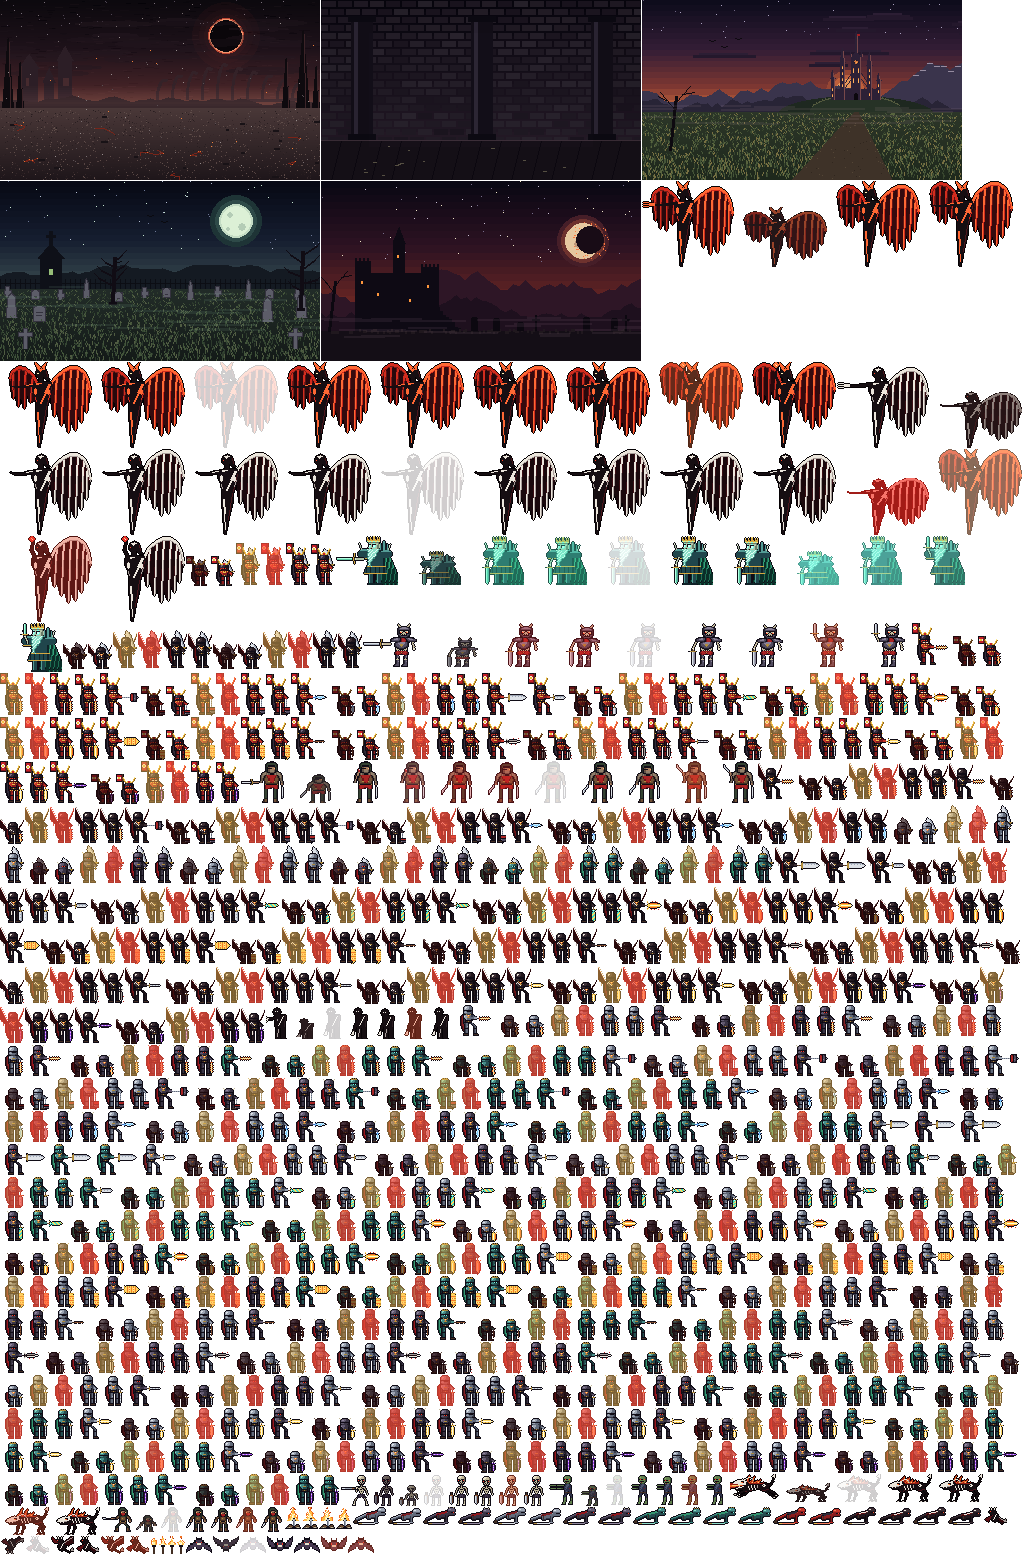
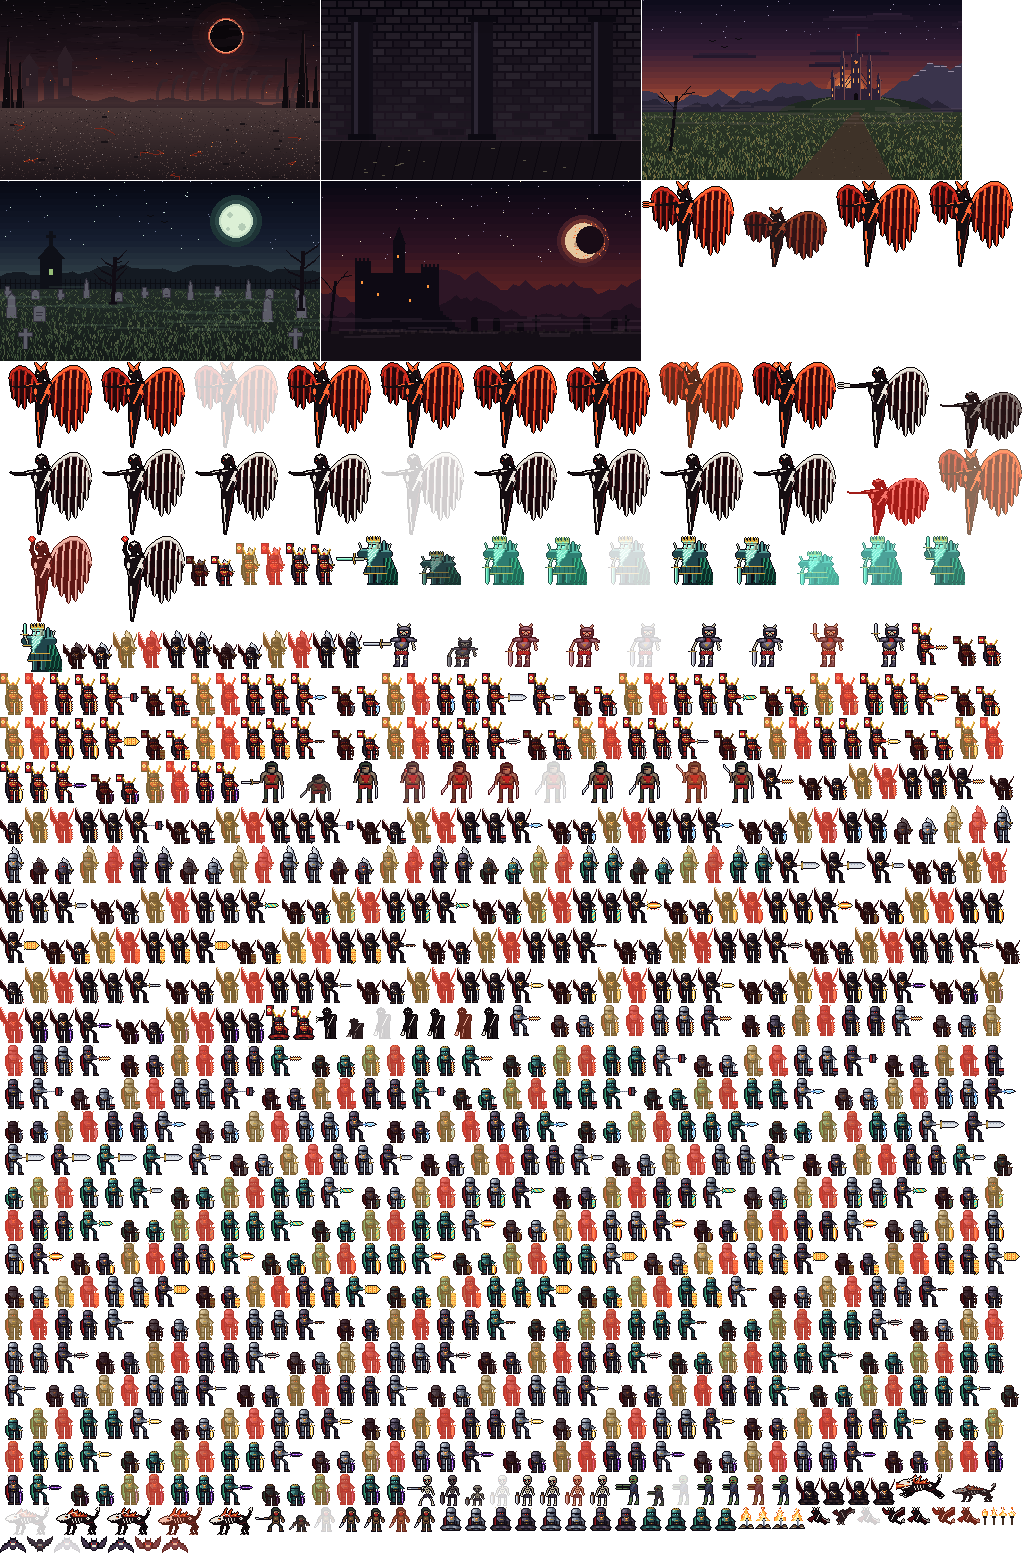
Медитация у костра вместо планки в бою
Аура копится только у костра: игрок стоит в планке, а герой медитирует,
сидя со скрещенными ногами и паря над землёй (тень, покачивание).
В бою и на титуле аура действует пассивно, герой в обычной стойке.
Подсказка у костра и в обучении про медитацию.

Claude-Session: https://claude.ai/code/session_011mW4u7Ce1C3wwPLST6Z2ZA

diff --git a/fitness_rpg/web/js/game.js b/fitness_rpg/web/js/game.js
@@ -41,8 +41,17 @@ function heroLook(owned) {
   if (owned.includes("kingarmor")) return amulet ? "king_amulet" : "king";
   return armor && amulet ? "both" : armor ? "armor" : amulet ? "amulet" : "base";
 }
-/** Герой в планке (копит ауру): поза одна на облик, меч лежит под ним. */
-const plankSprite = (owned, outfit, t) => anim(`hero_plank_${outfit || heroLook(owned)}`, t, 2.5, 2);
+/** Медитация у костра (игрок в планке — копится аура): герой сидит, скрестив ноги, и парит над землёй. */
+const meditateSprite = (owned, outfit, t) => anim(`hero_meditate_${outfit || heroLook(owned)}`, t, 1.2, 2);
+const meditateLift = (t) => 5 + Math.round(Math.sin(t * 2) * 1.5); // высота парения, медленно покачивается
+function drawMeditating(c, spr, x, ground, t, k = 1) {
+  const lift = meditateLift(t) * k;
+  c.fillStyle = "rgba(0,0,0,0.35)"; // тень на земле — видно, что парит
+  c.beginPath();
+  c.ellipse(x + 12 * k, ground - k, (9 - lift / k / 3) * k, 2 * k, 0, 0, Math.PI * 2);
+  c.fill();
+  c.drawImage(spr, x, ground - lift - spr.height * k, spr.width * k, spr.height * k);
+}
 /** Значок талисмана, если надет Талисман Ветра или Клык Вампира (Амулет Углей нарисован в самом облике). */
 const talismanTag = (owned) => (owned.includes("windcharm") ? "+wind" : owned.includes("fang") ? "+fang" : "");
 /** Префикс спрайтов героя: меч (или купленный облик меча skin), облик по реликвиям (или облик доспеха outfit) и талисман. */
@@ -144,19 +153,14 @@ const rand = (a, b) => a + Math.random() * (b - a);
  * Аура героя (планка): мягкое светлое свечение за спиной и редкие искры, растущие с силой ауры.
  * Заметна, но неброско: сильнее всего — к +12% и дальше не ярче. cx — центр героя, foot — земля, k — масштаб.
  */
-function drawPlankAura(c, cx, foot, bonus, t, k = 1, flat = false) {
+function drawPlankAura(c, cx, foot, bonus, t, k = 1) {
   if (!(bonus > 0)) return;
   const s = Math.min(1, bonus / 0.12), pulse = 0.5 + 0.5 * Math.sin(t * 1.6);
   // мягкое свечение: ярче у тела, к краям плавно гаснет (вытянуто по росту героя)
   const r = (13 + 6 * s) * k, a = (0.1 + 0.16 * s) * (0.8 + 0.2 * pulse);
   c.save();
-  if (flat) { // герой в планке — свечение вытянуто вдоль тела
-    c.translate(cx + 5 * k, foot - 8 * k);
-    c.scale(1.5, 0.65);
-  } else {
-    c.translate(cx, foot - 15 * k);
-    c.scale(1, 1.5);
-  }
+  c.translate(cx, foot - 15 * k);
+  c.scale(1, 1.5);
   const grad = c.createRadialGradient(0, 0, 0, 0, 0, r);
   grad.addColorStop(0, `rgba(255,236,180,${a})`);
   grad.addColorStop(0.6, `rgba(255,226,160,${a * 0.45})`);
@@ -265,10 +269,12 @@ class Game {
     });
   }
 
-  /** Аура: с камерой каждая секунда в планке копится навсегда (сохраняется раз в несколько секунд и по выходу из планки). */
+  /** Аура: с камерой каждая секунда в планке у костра (медитация) копится навсегда; в бою аура работает сама.
+   *  Сохраняется раз в несколько секунд и по выходу из планки. */
   plankTick(dt) {
     const d = this.motion.ok ? this.motion.detector : null;
-    const plank = this.mode === "cam" && d && d.posture === "планка" && document.visibilityState !== "hidden";
+    const plank = this.mode === "cam" && this.scene && this.scene.meditate && !this.scene.ritual
+      && d && d.posture === "планка" && document.visibilityState !== "hidden";
     if (plank) {
       this.player.plankSeconds += dt;
       this.plankUnsaved = (this.plankUnsaved || 0) + dt;
@@ -849,12 +855,11 @@ class TitleScene extends Scene {
     c.fill();
     c.drawImage(anim("bonfire", t, 8, 4), 200, GROUND_TITLE - 22);
     const p = this.game.player;
-    const heroIdle = this.game.inPlank ? plankSprite(p.worn, this.game.outfit, t)
-      : anim(`${heroSprite(p.sword, p.worn, this.game.skin, this.game.outfit)}_idle`, t, 1.5, 2);
-    drawPlankAura(c, 184, GROUND_TITLE, p.aura, t, 1, this.game.inPlank);
-    if (!this.game.inPlank) this.aura.drawBehind(c, this.game.skin, "idle", 172, GROUND_TITLE - 32, t); // огненные крылья Феникса
+    const heroIdle = anim(`${heroSprite(p.sword, p.worn, this.game.skin, this.game.outfit)}_idle`, t, 1.5, 2);
+    drawPlankAura(c, 184, GROUND_TITLE, p.aura, t);
+    this.aura.drawBehind(c, this.game.skin, "idle", 172, GROUND_TITLE - 32, t); // огненные крылья Феникса
     c.drawImage(heroIdle, 172, GROUND_TITLE - heroIdle.height);
-    if (!this.game.inPlank) this.aura.draw(c, this.game.skin, "idle", 172, GROUND_TITLE - 32, t);
+    this.aura.draw(c, this.game.skin, "idle", 172, GROUND_TITLE - 32, t);
     this.outfitFx.draw(c);
     const sx = 270, sy = GROUND_TITLE - 32;
     c.drawImage(IMG.skeleton_dark_0, sx, sy);
@@ -1034,6 +1039,7 @@ class BonfireScene extends Scene {
   constructor(game) {
     super(game);
     this.manual = true;
+    this.meditate = true; // планка у костра — медитация, копится аура
     this.embers = new Particles(216, 116, 26);
     this.ritual = null; // {stat, ex, need, done}
     this.punches = []; // время последних ударов (бокс): серия — «В БОЙ»
@@ -1089,7 +1095,8 @@ class BonfireScene extends Scene {
     const t = g.time, hits = this.punches.filter((p) => t - p < PUNCH_WINDOW).length;
     const marks = Array.from({ length: PUNCHES_TO_FIGHT }, (_, i) => (i < hits ? "#" : "-")).join(" ");
     const align = center ? "center" : "left";
-    g.text("Упражнение — прокачка навыка", x, y, size, COL.text, align);
+    if (g.inPlank) g.text(tf("Медитация: аура +{pct}%", { pct: (g.player.aura * 100).toFixed(1) }), x, y, size, "rgb(255,236,170)", align);
+    else g.text(g.mode === "cam" ? "Упражнение — навык, планка — аура" : "Упражнение — прокачка навыка", x, y, size, COL.text, align);
     g.text(tf("Бокс: {n} удара — в бой!  {m}", { n: PUNCHES_TO_FIGHT, m: marks }), x, y + size + 6, size, hits ? "rgb(150,250,150)" : COL.gold, align);
   }
   /** Бокс у костра: PUNCHES_TO_FIGHT ударов за PUNCH_WINDOW секунд — в бой. */
@@ -1177,10 +1184,14 @@ class BonfireScene extends Scene {
     if (this.game.portrait) return; // на телефоне вертикально костёр и рыцарь рисуются крупно рядом с панелями
     c.drawImage(anim("bonfire", t, 8, 4), 200, GROUND_TITLE - 44, 32, 44);
     const p = this.game.player, hs = heroSprite(p.sword, p.worn, this.game.skin, this.game.outfit);
-    const hero = this.game.inPlank && !(this.ritual && this.ritual.done % 2) ? plankSprite(p.worn, this.game.outfit, t)
-      : this.ritual && this.ritual.done % 2 ? IMG[`${hs}_attack_0`] : IMG[`${hs}_idle_0`];
-    drawPlankAura(c, 180, GROUND_TITLE, p.aura, t, 1, this.game.inPlank);
-    c.drawImage(hero, 168, GROUND_TITLE - hero.height);
+    if (this.game.inPlank) {
+      drawPlankAura(c, 180, GROUND_TITLE - meditateLift(t), p.aura, t);
+      drawMeditating(c, meditateSprite(p.worn, this.game.outfit, t), 168, GROUND_TITLE, t);
+    } else {
+      const hero = this.ritual && this.ritual.done % 2 ? IMG[`${hs}_attack_0`] : IMG[`${hs}_idle_0`];
+      drawPlankAura(c, 180, GROUND_TITLE, p.aura, t);
+      c.drawImage(hero, 168, GROUND_TITLE - hero.height);
+    }
     this.embers.draw(c);
   }
   drawUi() {
@@ -1253,10 +1264,14 @@ class BonfireScene extends Scene {
     c.fill();
     c.imageSmoothingEnabled = false;
     const hs = heroSprite(p.sword, p.worn, g.skin, g.outfit);
-    const hero = this.game.inPlank && !(this.ritual && this.ritual.done % 2) ? plankSprite(p.worn, this.game.outfit, t)
-      : this.ritual && this.ritual.done % 2 ? IMG[`${hs}_attack_0`] : IMG[`${hs}_idle_0`];
-    drawPlankAura(c, x + 48, ground, p.aura, t, 3, g.inPlank);
-    c.drawImage(hero, x + 12, ground - hero.height * 3, hero.width * 3, hero.height * 3);
+    if (g.inPlank) {
+      drawPlankAura(c, x + 48, ground - meditateLift(t) * 3, p.aura, t, 3);
+      drawMeditating(c, meditateSprite(p.worn, g.outfit, t), x + 12, ground, t, 3);
+    } else {
+      const hero = this.ritual && this.ritual.done % 2 ? IMG[`${hs}_attack_0`] : IMG[`${hs}_idle_0`];
+      drawPlankAura(c, x + 48, ground, p.aura, t, 3);
+      c.drawImage(hero, x + 12, ground - hero.height * 3, hero.width * 3, hero.height * 3);
+    }
     const fire = anim("bonfire", t, 8, 4);
     c.drawImage(fire, x + 112, ground - fire.height * 3, fire.width * 3, fire.height * 3);
   }
@@ -1957,13 +1972,11 @@ class BattleScene extends Scene {
     const hero = heroSprite(p.sword, p.worn, skin, this.game.outfit); // меч (или его облик) и облик по реликвиям
     if (this.result === "dead") spr = IMG[`${hero}_dead_0`];
     else if (this.hurtT > 0) spr = IMG[`${hero}_hurt_0`];
-    else if (this.action === "idle" && this.game.inPlank) spr = plankSprite(p.worn, this.game.outfit, t); // стоит в планке
     else if (this.action === "idle") spr = anim(`${hero}_idle`, t, 1.5, 2);
     else spr = IMG[`${hero}_${this.action}_0`];
-    const planking = this.action === "idle" && this.game.inPlank && !this.result && !(this.hurtT > 0);
     const hx = this.HERO_X + (this.action === "attack" ? 10 : this.action === "dodge" ? -6 : 0);
-    drawPlankAura(c, hx + 12, GROUND_ARENA, p.aura, t, 1, planking); // аура за время в планке
-    if (!planking) this.aura.drawBehind(c, skin, this.action === "attack" ? "attack" : this.action === "idle" ? "idle" : "", hx, GROUND_ARENA - 32, t);
+    drawPlankAura(c, hx + 12, GROUND_ARENA, p.aura, t); // аура за время в планке
+    this.aura.drawBehind(c, skin, this.action === "attack" ? "attack" : this.action === "idle" ? "idle" : "", hx, GROUND_ARENA - 32, t);
     if (this.action === "dodge") {
       c.globalAlpha = 0.3;
       c.drawImage(spr, hx + 8, GROUND_ARENA - spr.height);
@@ -1971,7 +1984,7 @@ class BattleScene extends Scene {
     }
     c.drawImage(spr, hx, GROUND_ARENA - spr.height);
     const [, hy, pose] = this.heroPose();
-    if (!planking) this.aura.draw(c, skin, pose, hx, hy, t); // в планке крылья и свечение клинка не к месту
+    this.aura.draw(c, skin, pose, hx, hy, t);
     this.outfitFx.draw(c);
     if (this.slashT > 0) drawSlash(c, hx + 34, GROUND_ARENA - 19, p.sword, 1 - this.slashT / SLASH_TIME, skin); // след удара
     this.hitFx.draw(c);
@@ -3613,6 +3626,7 @@ const TUTORIAL = [
     "У костра бокс начинает бой — не нужно подходить к телефону." ] },
   { ex: "done", title: "ГОТОВО!", pose: "idle", lines: [
     "У костра просто начните упражнение — начнётся прокачка навыка.",
+    "Встаньте у костра в планку — герой медитирует и копит ауру.",
     "Звук «бзз-бзз» — нельзя: не хватает пепла или сил.",
     "Удачи, рыцарь!" ] },
 ];

diff --git a/fitness_rpg/web/js/i18n.js b/fitness_rpg/web/js/i18n.js
@@ -409,6 +409,9 @@ const EN = {
   "Жду, пока вы встанете в кадр": "Waiting for you to step into the frame",
   "Сделано: {done} из {need}": "Done: {done} of {need}",
   "Упражнение — прокачка навыка": "Exercise to train a skill",
+  "Упражнение — навык, планка — аура": "Exercise: skill, plank: aura",
+  "Медитация: аура +{pct}%": "Meditation: aura +{pct}%",
+  "Встаньте у костра в планку — герой медитирует и копит ауру.": "Hold a plank at the bonfire: the hero meditates and gathers aura.",
   "Бокс: {n} удара — в бой!  {m}": "Box: {n} punches to fight!  {m}",
   "{#} КРИТ!": "{#} CRIT!",
   "{#} БРОНЯ": "{#} ARMOR",

diff --git a/fitness_rpg/game/art.py b/fitness_rpg/game/art.py
@@ -1361,82 +1361,36 @@ def make_torch_frames(n=4):
     return frames
 
 
-def plank_map(look, sag=0):
-    """Герой в планке (вид сбоку, голова справа): прямое тело высоко над землёй на прямых руках,
-    носки упёрты в землю, меч лежит под ним. sag — корпус чуть проседает (дрожь в планке)."""
-    W, H = 34, 18
-    g = [["."] * W for _ in range(H)]
-
-    def px(x, y, ch):  # строка сверху — запас под рога и корону
-        if 0 <= x < W and 0 <= y + 1 < H:
-            g[y + 1][x] = ch
-
-    def line(x0, y0, x1, y1, ch):
-        n = max(abs(x1 - x0), abs(y1 - y0), 1)
-        for i in range(n + 1):
-            px(round(x0 + (x1 - x0) * i / n), round(y0 + (y1 - y0) * i / n), ch)
-
-    d = sag
-    ground = 15
-    for x in range(6, 22):  # меч лежит на земле
-        px(x, ground, "w" if x > 8 else "g")
-    px(5, ground, "b")
-    # ноги: прямая линия от носков к бёдрам
-    for t, ch in ((0, "d"), (1, "s"), (2, "l")):
-        line(3, 12 - t, 14, 7 - t + d, ch)
-    for x, y in ((1, 13), (2, 13), (3, 13), (1, 14), (2, 14), (3, 14), (2, 12), (3, 12)):  # сапоги, носки на земле
-        px(x, y, "b")
-    # туловище — продолжает линию ног
-    for x in range(14, 26):
-        top = 6 - (x - 14) * 3 // 11 + d
-        for y in range(top, top + 5):
-            px(x, y, "l" if y == top else "d" if y == top + 4 else "s")
-    for y in range(5 + d, 10 + d):  # пояс
-        px(15, y, "b")
-    # плащ лежит на спине
-    for x in range(13, 24):
-        top = 6 - (x - 14) * 3 // 11 + d - 1
-        px(x, top, "R")
-        px(x, top + 1, "r" if x < 16 else "R")
-    # голова: шлем, забрало смотрит вниз-вперёд
-    for y in range(0, 7):
-        for x in range(25, 32):
-            if (x, y) in ((25, 0), (31, 0)):
-                continue
-            px(x, y + d, "l" if y < 3 else "s")
-    for x in range(28, 32):
-        px(x, 4 + d, "k")
-    px(26, 1 + d, "w")
-    px(27, 1 + d, "w")
-    if look in ("armor", "both"):
-        px(26, d - 1, "O")
-        px(30, d - 1, "O")
-    if look.startswith("king"):
-        for x in (26, 28, 30):
-            px(x, d - 1, "g")
-    if look.startswith("wing"):
-        line(16, 5 + d, 24, 3 + d, "w")
-    if look in ("armor", "both", "king", "king_amulet", "wing", "wing_amulet", "samurai"):
-        px(30, 4 + d, "e")
-    # прямые руки от плеч в землю
-    for y in range(7 + d, ground - 1):
-        px(22, y, "d")
-        px(23, y, "s")
-    for x in range(21, 25):
-        px(x, ground - 1, "l")
-    out = [row[:] for row in g]
-    for y in range(H):
-        for x in range(W):
-            if g[y][x] == "." and any(0 <= x + dx < W and 0 <= y + dy < H and g[y + dy][x + dx] not in ".k"
-                                      for dx, dy in ((1, 0), (-1, 0), (0, 1), (0, -1))):
-                out[y][x] = "k"
-    return ["".join(r) for r in out]
+MEDITATE_LEGS = [  # ноги скрещены, ладони на коленях, сапоги подогнуты под себя
+    "....kkkkkddddddddkkkkk..",
+    "...kddsslllsssslllssddk.",
+    "..kdsssslllsssslllssssdk",
+    "..kddssskkkkkkkkkssdddk.",
+    "...kkbbbbkddssddkbbbbkk.",
+    "....kkkkkkkkkkkkkkkkkk..",
+]
 
 
-def make_plank_frames(look):
+def make_meditate_frames(look):
+    """Герой медитирует у костра (копит ауру): сидит, скрестив ноги, верх тела — как в стойке,
+    без меча. Холст 24x24 (+ запас под крылья/знамя сверху), низ спрайта — низ сапог."""
     palette = ARMOR_PALETTE if look in ("armor", "both") else KING_PALETTE if look.startswith("king") \
         else WING_PALETTE if look.startswith("wing") else SAMURAI_PALETTE if look == "samurai" else BODY_PALETTE
-    return [sprite_from_map(plank_map(look, 0), palette), sprite_from_map(plank_map(look, 1), palette)]
+    rows = _body_rows(HERO_IDLE, 24, look)[:18]
+    for y in range(14, 18):  # рука без меча: кисть опущена к колену
+        for x in range(19, 24):
+            _put(rows, x, y, ".")
+    for y in range(14, 18):  # предплечье вниз, перчатка лежит на колене
+        for x, ch in ((18, "k"), (19, "b" if y == 17 else "d"), (20, "b" if y == 17 else "s"), (21, "k")):
+            _put(rows, x, y, ch)
+    rows += [r.ljust(24, ".") for r in MEDITATE_LEGS]
+    rows += ["." * 24] * (32 - len(rows))
+    surf = sprite_from_map(rows, palette)
+    surf = _samurai_dress(surf) if look == "samurai" else _wing_dress(surf) if look.startswith("wing") else surf
+    w, h = surf.get_size()
+    out = pygame.Surface((w, h - 8), pygame.SRCALPHA)  # пустые 8 строк снизу не нужны
+    out.blit(surf, (0, 0))
+    return [out, shifted_breath(out)]
 
 
 def make_hero_frames(sword, look="base"):

diff --git a/fitness_rpg/tools/export_web_assets.py b/fitness_rpg/tools/export_web_assets.py
@@ -59,10 +59,10 @@ def main():
         for anim_name, surfs in frames.items():
             for i, surf in enumerate(surfs):
                 sprites[f"{who}_{anim_name}_{i}"] = surf
-    # поза планки (аура) не зависит от меча — одна на облик: hero_plank_<облик>_<кадр>
+    # медитация у костра (аура) не зависит от меча — одна на облик: hero_meditate_<облик>_<кадр>
     for look in art.LOOKS:
-        for i, surf in enumerate(art.make_plank_frames(look)):
-            sprites[f"hero_plank_{look}_{i}"] = surf
+        for i, surf in enumerate(art.make_meditate_frames(look)):
+            sprites[f"hero_meditate_{look}_{i}"] = surf
     for i, surf in enumerate(a.bonfire):
         sprites[f"bonfire_{i}"] = surf
     for i, surf in enumerate(a.torch):
